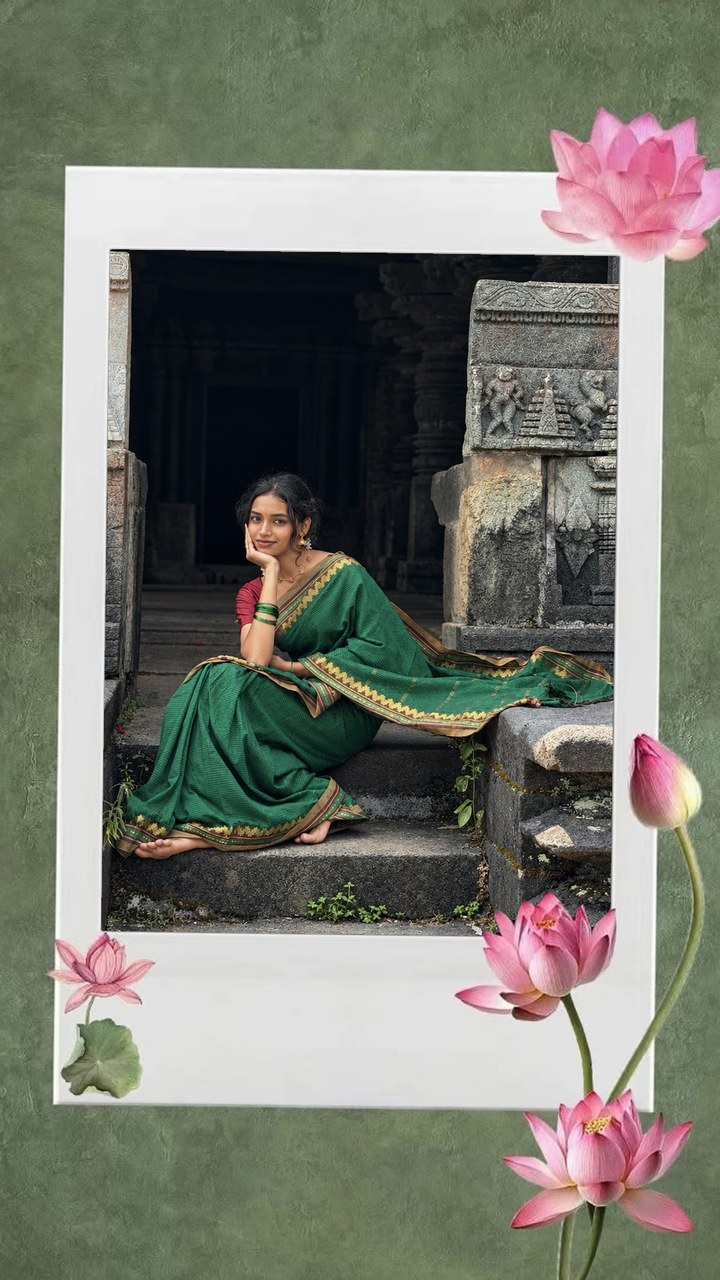
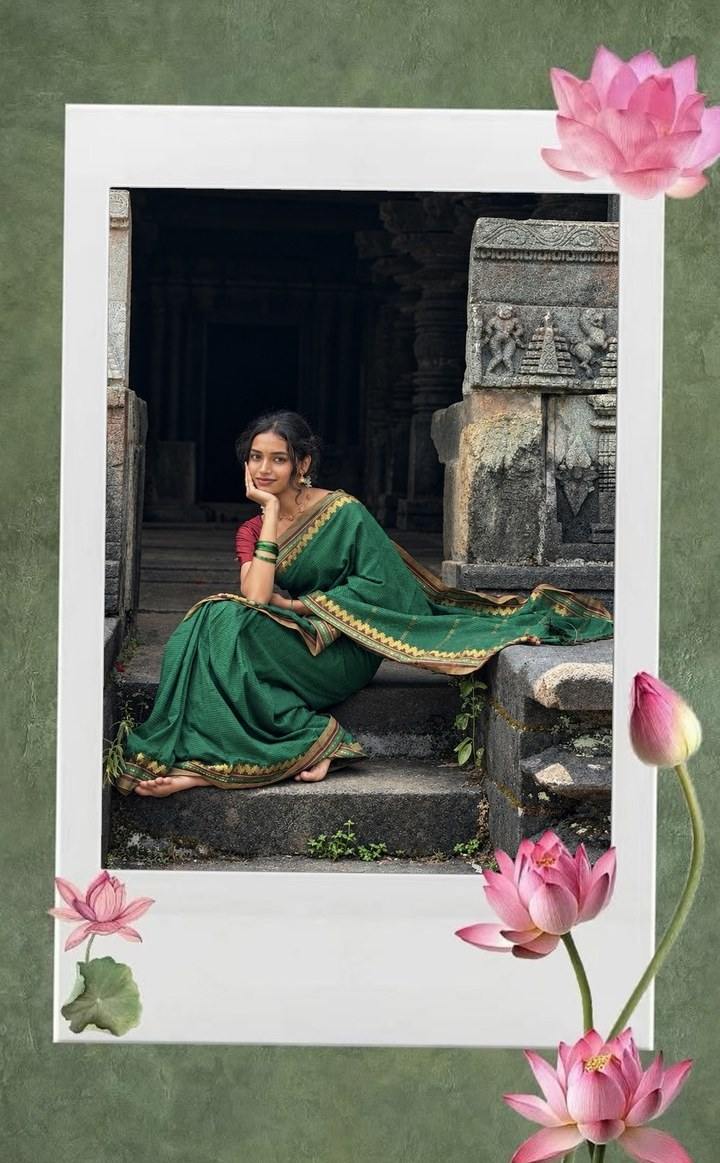
Poster page: green card fits the white frame of the blossom background; buttons below
Claude-Session: https://claude.ai/code/session_01JHJJcNN1WigQCLhPgRmBLg

diff --git a/index.html b/index.html
@@ -175,6 +175,14 @@ body{background:#fbeee8}
 body::before{content:"";position:fixed;inset:0;z-index:0;background:#fbeee8 url(images/page_bg.jpg) center/cover no-repeat;pointer-events:none}
 .d.tl,.d.bl,.d.bow,.d.bln,.d.cake{display:none}
 .float{display:none!important}
+/* poster v7: green card fits the white rounded frame of the background image */
+body:has(#s2.active)::before{display:none}
+#s2{padding:0}
+.stage2{position:relative;width:min(100vw,calc(100vh*.5625));width:min(100vw,calc(100dvh*.5625));aspect-ratio:9/16;background:url(images/page_bg.jpg) 0 0/100% 100% no-repeat}
+.stage2 .poster{position:absolute;left:6%;top:8.6%;width:88%;height:80%;aspect-ratio:auto;max-width:none;background-size:100% 100%;border-radius:clamp(14px,5.2vw,26px);box-shadow:0 10px 26px rgba(150,80,80,.22);overflow:hidden}
+.stage2 .sheet{left:21%;top:75.9%;width:40%;height:14.3%}
+.stage2 .poster{overflow:visible}.stage2 .pnav{bottom:auto;top:calc(100% + 1%);padding:0;margin:0}.stage2 .pbtn{padding:9px 16px;font-size:.92rem}
+@media(max-height:560px) and (orientation:landscape){.stage2{width:min(100%,440px)}}
 </style>
 </head>
 <body>
@@ -246,7 +254,7 @@ body::before{content:"";position:fixed;inset:0;z-index:0;background:#fbeee8 url(
 
 <!-- 2. BIRTHDAY POSTER -->
 <section id="s2">
-  <div class="poster">
+  <div class="stage2"><div class="poster">
     <div class="pbg" id="pbg"></div>
     <div class="dots"></div>
     <div class="main" id="main"></div>
@@ -265,14 +273,14 @@ body::before{content:"";position:fixed;inset:0;z-index:0;background:#fbeee8 url(
       <ellipse cx="80" cy="58" rx="74" ry="19" fill="none" stroke="rgba(90,95,105,.55)" stroke-width="2" transform="rotate(-18 80 58)"/>
     </svg>
     <div class="fade"></div>
-    <div class="sheet"><img class="her" src="images/her_cut.png" alt="">
+    <div class="sheet">
       <div class="ptext">
         <img class="bdt" src="images/bday_text.png" alt="Happy Birthday">
         <div class="pname" id="pname" hidden>Gurl</div>
       </div>
     </div>
     <div class="nav pnav"><button class="btn ghost pbtn" id="back2">← Back</button><button class="btn pbtn" id="next2">Continue <img class="mini-env" src="images/envelope.png" alt="" onerror="this.replaceWith('💌')"></button></div>
-  </div>
+  </div></div>
 </section>
 
 <!-- 3. LETTER -->
